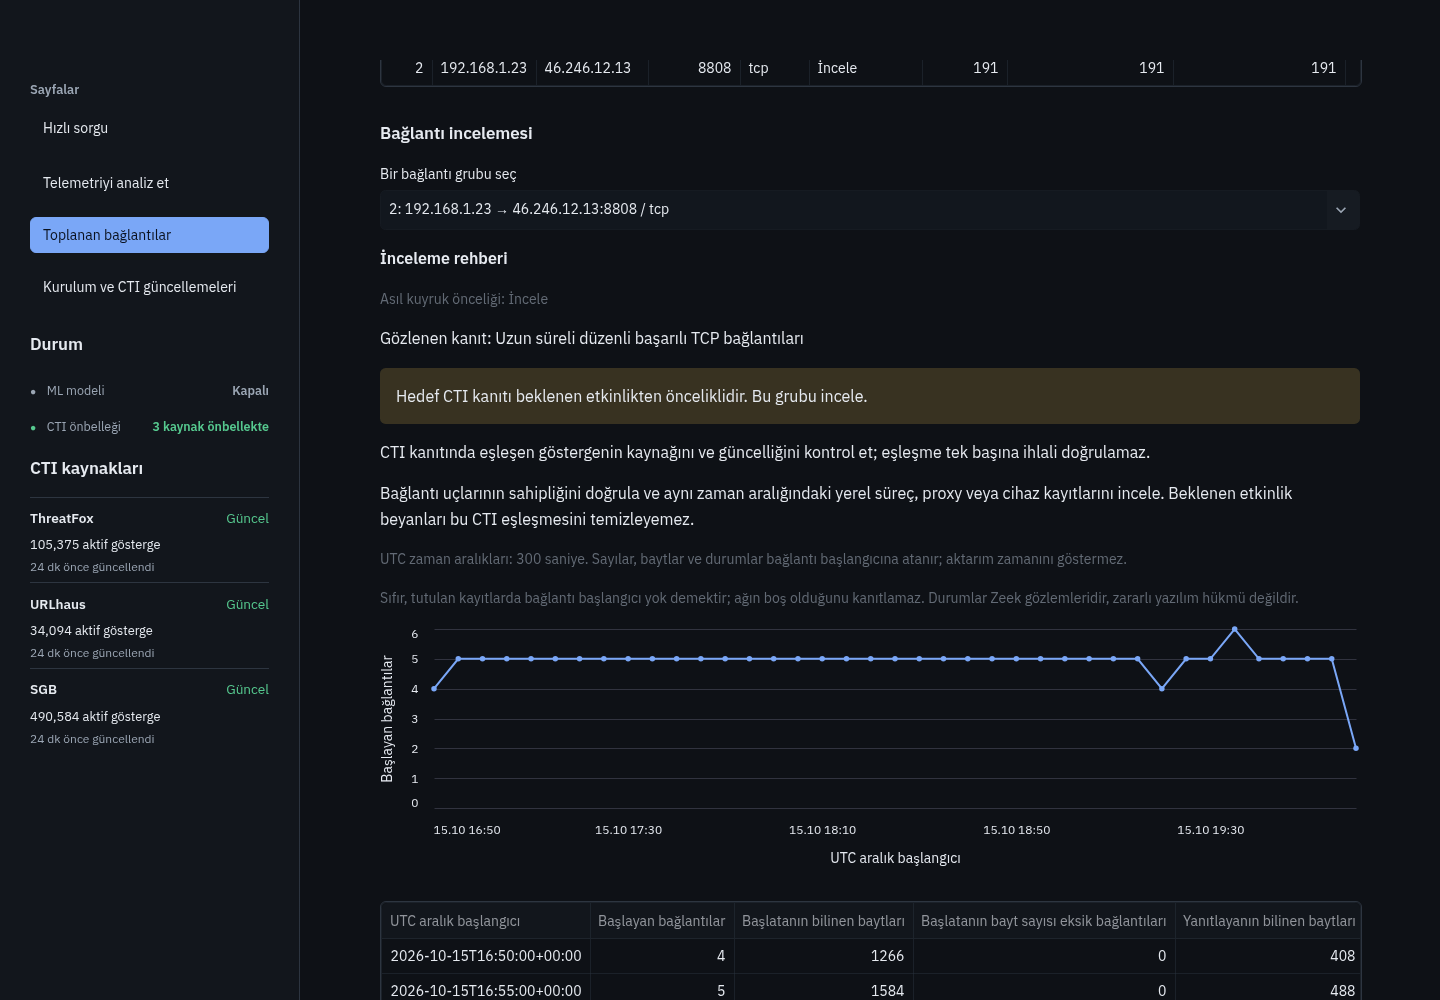
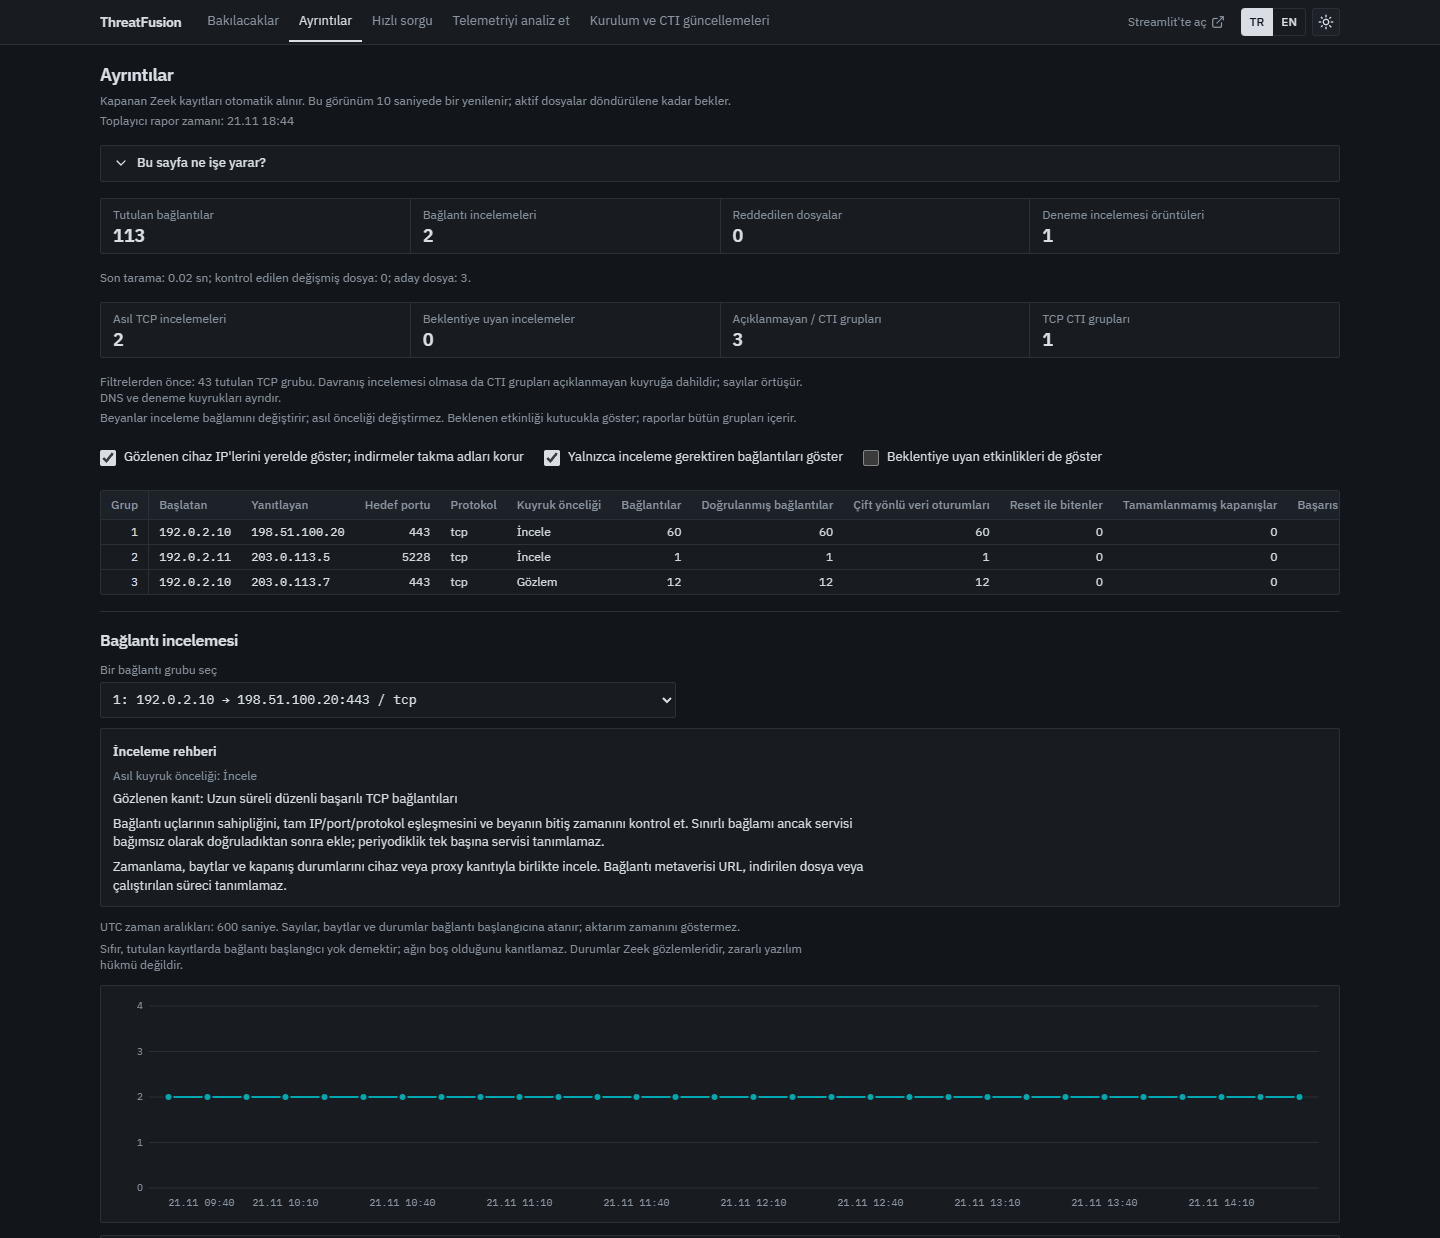
docs: README shows the new React workspace
Screenshots of the five React screens (synthetic demo data, EN and TR),
a short section on what has moved from Streamlit and how to run it, and
the development stack. The installer still opens Streamlit; the README
says so.

diff --git a/README.tr.md b/README.tr.md
@@ -68,34 +68,52 @@ Ayrıntılar: [kullanım kılavuzu](docs/USER_GUIDE.tr.md#neler-işaretlenir).
 
 ## Ekran görüntüleri
 
-Görüntüler, uygulamanın **elle hazırlanmış Zeek kayıtlarıyla** beslenen
-yalıtılmış bir kopyasından alındı. İşaretlenen adlar ve IP gerçektir:
-ThreatFox ve SGB listelerindeki herkese açık göstergelerdir (bir AsyncRAT
-komuta sunucusu, bir RemusStealer komuta alan adı ve bir oltalama alan adı).
-Bunlara hiçbir trafik gönderilmedi; zararlı adların kayıtlarda çözüldüğü
-adresler, belgeler için ayrılmış adreslerdir.
+Görüntüler yeni **React arayüzünden** alındı (koyu tema, Türkçe). Yerleşik
+demodan gelir: **yalnızca sentetik veri**, belgeler için ayrılmış adresler
+(`192.0.2.x`, `198.51.100.x`, `203.0.113.x`), `.test` adları ve sentetik bir CTI
+listesi. Gerçek trafik ya da gerçek gösterge yoktur.
 
 <p align="center">
-  <img src="docs/screenshots/tr/collected-connections.png" alt="Bakılacaklar: üç tehdit listesi eşleşmesi, düzenli bir haber verme ve bir başarısız deneme deseni; nedenleri ve işaretleriyle" width="100%">
+  <img src="docs/screenshots/tr/collected-connections.png" alt="Bakılacaklar: bir tehdit listesi eşleşmesi, düzenli tekrar, uzun bağlantı, düzenli sorgu ve başarısız denemeler; nedenleri ve işaretleriyle, düzenli tekrar satırı açık" width="100%">
 </p>
-<p align="center"><em>Toplanan bağlantılar → Bakılacaklar: önce tehdit listesi eşleşmeleri, sonra davranış. Her madde neden listede olduğunu ve ne yapılacağını söyler.</em></p>
+<p align="center"><em>Bakılacaklar: önce tehdit listesi eşleşmeleri, sonra davranış. Her satır neden listede olduğunu söyler; açılan satır ne yapılacağını söyler ve dış sorgu düğmelerini gösterir.</em></p>
 
 <p align="center">
-  <img src="docs/screenshots/tr/connection-investigation.png" alt="AsyncRAT bağlantı grubunun incelemesi: rehber ve zamana göre bağlantı başlangıçları" width="100%">
+  <img src="docs/screenshots/tr/connection-investigation.png" alt="Ayrıntılar: toplayıcı sayaçları, bağlantı inceleme grupları, inceleme rehberi ve zamana göre bağlantı başlangıçları" width="100%">
 </p>
-<p align="center"><em>Bir grubu incelemek: listedeki bir komuta sunucusuna üç saat boyunca dakikada bir bağlanan bir cihaz.</em></p>
+<p align="center"><em>Ayrıntılar: toplanan bağlantı grupları ve bunlardan birinin incelemesi (aynı sunucuya 5 dakikada bir bağlanan bir cihaz).</em></p>
 
 <p align="center">
-  <img src="docs/screenshots/tr/analyze-telemetry.png" alt="Telemetriyi analiz et: yüklenen bir Zeek dns.log dosyasında iki bilinen tehdit ve bir inceleme" width="100%">
+  <img src="docs/screenshots/tr/analyze-telemetry.png" alt="Telemetriyi analiz et: yüklenen bir Zeek dns.log dosyasında bir bilinen tehdit, öncelikli bulgular ve sonuç dağılımı" width="100%">
 </p>
-<p align="center"><em>Telemetriyi analiz et: tek seferlik analiz için bir dosya yükle (burada bir Zeek dns.log).</em></p>
+<p align="center"><em>Telemetriyi analiz et: tek seferlik analiz için bir dosya yükle (burada örnek Zeek dns.log).</em></p>
 
 <table>
 <tr>
-<td width="50%"><img src="docs/screenshots/tr/quick-lookup.png" alt="Bir ThreatFox komuta alan adının hızlı sorgusu"><br><em>Hızlı sorgu: tek bir URL, alan adı ya da IP'yi ziyaret etmeden kontrol et.</em></td>
+<td width="50%"><img src="docs/screenshots/tr/quick-lookup.png" alt="Listedeki sentetik bir alan adının hızlı sorgusu: bilinen tehdit"><br><em>Hızlı sorgu: tek bir URL, alan adı ya da IP'yi ziyaret etmeden kontrol et.</em></td>
 <td width="50%"><img src="docs/screenshots/tr/setup.png" alt="Kurulum ve CTI güncellemeleri sayfası"><br><em>Kurulum: kendi API anahtarların, CTI güncellemeleri ve otomatik yenileme.</em></td>
 </tr>
 </table>
+
+### Yeni arayüz (React)
+
+Uygulama, ekran ekran Streamlit'ten **React + FastAPI** arayüzüne taşınıyor.
+Şimdiye kadar taşınanlar: **Bakılacaklar**, **Ayrıntılar**, **Hızlı sorgu**,
+**Telemetriyi analiz et** ve **Kurulum ve CTI güncellemeleri**. Deneysel ML,
+Model değerlendirme ve Analiz geçmişi henüz Streamlit'te (üst menüdeki
+**Streamlit'te aç** bağlantısı oraya götürür). İkisi aynı toplayıcı verisini
+okur, aynı işaretleri paylaşır ve ikisi de yalnızca 127.0.0.1'de dinler.
+
+Kurulum henüz React sayfasını içermiyor: `threatfusion-ai` hâlâ Streamlit
+arayüzünü açar. Yeni arayüzü kaynak koddan denemek için sayfayı derle ve demoyu
+çalıştır (sentetik veri):
+
+```bash
+(cd web && npm ci && npm run build)
+scripts/demo_web.sh   # React: http://127.0.0.1:8600 · Streamlit: http://127.0.0.1:8501
+```
+
+Kendi toplanan verinle çalıştırma ve geliştirme: [web/README.md](web/README.md) (İngilizce).
 
 ## Kurulum (Linux, tek komut)
 
@@ -232,9 +250,11 @@ yerel uygulama. Bu araçlardan daha faydalı olup olmadığı ölçülmedi.
 
 ## Geliştirme
 
-Python 3.12, Streamlit, SQLite, pandas, Altair, Plotly ve scikit-learn. CI; kod
-denetimi, testler, deponun gizlilik denetimi, konteyner kontrolü ve sıfır Debian
-ile Ubuntu'da kurulum testlerini çalıştırır. Yalnızca Linux.
+Python 3.12, FastAPI, Streamlit, SQLite, pandas, Altair, Plotly ve
+scikit-learn; yeni arayüz React 19, TypeScript, Vite ve Tailwind CSS kullanır
+([web/README.md](web/README.md)). CI; kod denetimi, testler, React sayfasının
+tarayıcı testleri, deponun gizlilik denetimi, konteyner kontrolü ve temiz
+kurulumlu Debian ile Ubuntu'da kurulum testlerini çalıştırır. Yalnızca Linux.
 
 Bu proje yoğun yapay zekâ desteğiyle geliştiriliyor (tasarım, kod, test ve
 dokümantasyon); değişiklikler birleştirilmeden önce gözden geçirilir ve test edilir.

diff --git a/README.md b/README.md
@@ -67,34 +67,53 @@ you can decide quickly. Details: [user guide](docs/USER_GUIDE.md#what-gets-flagg
 
 ## Screenshots
 
-The screenshots come from an isolated copy of the app fed with **crafted Zeek
-logs**. The flagged names and IP are real, public indicators from the
-ThreatFox and SGB lists (an AsyncRAT command server, a RemusStealer
-command domain and a phishing domain); no traffic was sent to them, and the
-addresses the malicious names resolve to in the logs are reserved documentation
-addresses.
+The screenshots show the new **React workspace** (dark theme, English; Turkish
+is the default). They come from the built-in demo: **synthetic data only**,
+reserved documentation addresses (`192.0.2.x`, `198.51.100.x`, `203.0.113.x`),
+`.test` names and a synthetic CTI list. No real traffic or real indicators are
+shown.
 
 <p align="center">
-  <img src="docs/screenshots/collected-connections.png" alt="What to check: three threat-list matches, a regular check-in and a failed-attempt pattern, with reasons and marks" width="100%">
+  <img src="docs/screenshots/collected-connections.png" alt="What to check: a threat-list match, regular repeats, a long connection, regular lookups and failed attempts, with reasons and marks; the regular-repeats item is open" width="100%">
 </p>
-<p align="center"><em>Collected connections → What to check: threat-list matches first, then behavior. Each item says why it is listed and what to do.</em></p>
+<p align="center"><em>What to check: threat-list matches first, then behavior. Each row says why it is listed; an open row says what to do and offers outside lookups.</em></p>
 
 <p align="center">
-  <img src="docs/screenshots/connection-investigation.png" alt="Investigation of the AsyncRAT connection group: guidance and connection starts over time" width="100%">
+  <img src="docs/screenshots/connection-investigation.png" alt="Details: collector counts, connection review groups, review guidance and connection starts over time" width="100%">
 </p>
-<p align="center"><em>Investigating a group: a device checking in with a listed command server every minute, over three hours.</em></p>
+<p align="center"><em>Details: the collected connection groups and an investigation of one of them (a device calling the same server every 5 minutes).</em></p>
 
 <p align="center">
-  <img src="docs/screenshots/analyze-telemetry.png" alt="Analyze telemetry: an uploaded Zeek dns.log with two known threats and one review" width="100%">
+  <img src="docs/screenshots/analyze-telemetry.png" alt="Analyze telemetry: an uploaded Zeek dns.log with one known threat, priority findings and the verdict distribution" width="100%">
 </p>
-<p align="center"><em>Analyze telemetry: upload one file (here a Zeek dns.log) for a one-time analysis.</em></p>
+<p align="center"><em>Analyze telemetry: upload one file (here the sample Zeek dns.log) for a one-time analysis.</em></p>
 
 <table>
 <tr>
-<td width="50%"><img src="docs/screenshots/quick-lookup.png" alt="Quick lookup of a ThreatFox command domain"><br><em>Quick lookup: check one URL, domain or IP without visiting it.</em></td>
+<td width="50%"><img src="docs/screenshots/quick-lookup.png" alt="Quick lookup of a synthetic listed domain: known threat"><br><em>Quick lookup: check one URL, domain or IP without visiting it.</em></td>
 <td width="50%"><img src="docs/screenshots/setup.png" alt="Setup and CTI updates page"><br><em>Setup: your own API keys, CTI updates and automatic refresh.</em></td>
 </tr>
 </table>
+
+### New interface (React)
+
+The app is moving from Streamlit to a **React + FastAPI** workspace, screen by
+screen. Moved so far: **What to check**, **Details**, **Quick lookup**,
+**Analyze telemetry** and **Setup & CTI updates**. Experimental ML, Model
+evaluation and Analysis history are still in Streamlit (the header link
+**Open in Streamlit** goes there). Both read the same collector data and share
+the same marks, and both listen on 127.0.0.1 only.
+
+The installer does not ship the React page yet: `threatfusion-ai` still opens
+the Streamlit interface. To try the new one from a source checkout, build the
+page and run the demo (synthetic data):
+
+```bash
+(cd web && npm ci && npm run build)
+scripts/demo_web.sh   # React: http://127.0.0.1:8600 · Streamlit: http://127.0.0.1:8501
+```
+
+Running it on your own collected data, and development: [web/README.md](web/README.md).
 
 ## Install (Linux, one command)
 
@@ -224,13 +243,11 @@ is more useful than these tools has not been measured.
 
 ## Development
 
-Python 3.12, Streamlit, SQLite, pandas, Altair, Plotly and scikit-learn.
-CI runs lint, tests, a privacy audit of the repository, a container check and
-first-run installs on fresh Debian and Ubuntu. Linux only.
-
-A React + FastAPI workspace is replacing the Streamlit UI screen by screen
-(branch `feat/react-workspace`); [web/README.md](web/README.md) explains how
-to run it next to Streamlit, both on 127.0.0.1 only.
+Python 3.12, FastAPI, Streamlit, SQLite, pandas, Altair, Plotly and
+scikit-learn; the new interface uses React 19, TypeScript, Vite and Tailwind CSS
+([web/README.md](web/README.md)). CI runs lint, tests, browser tests of the
+React page, a privacy audit of the repository, a container check and first-run
+installs on fresh Debian and Ubuntu. Linux only.
 
 This project is developed with extensive AI assistance (design, code, tests and
 documentation); changes are reviewed and tested before they are merged.
